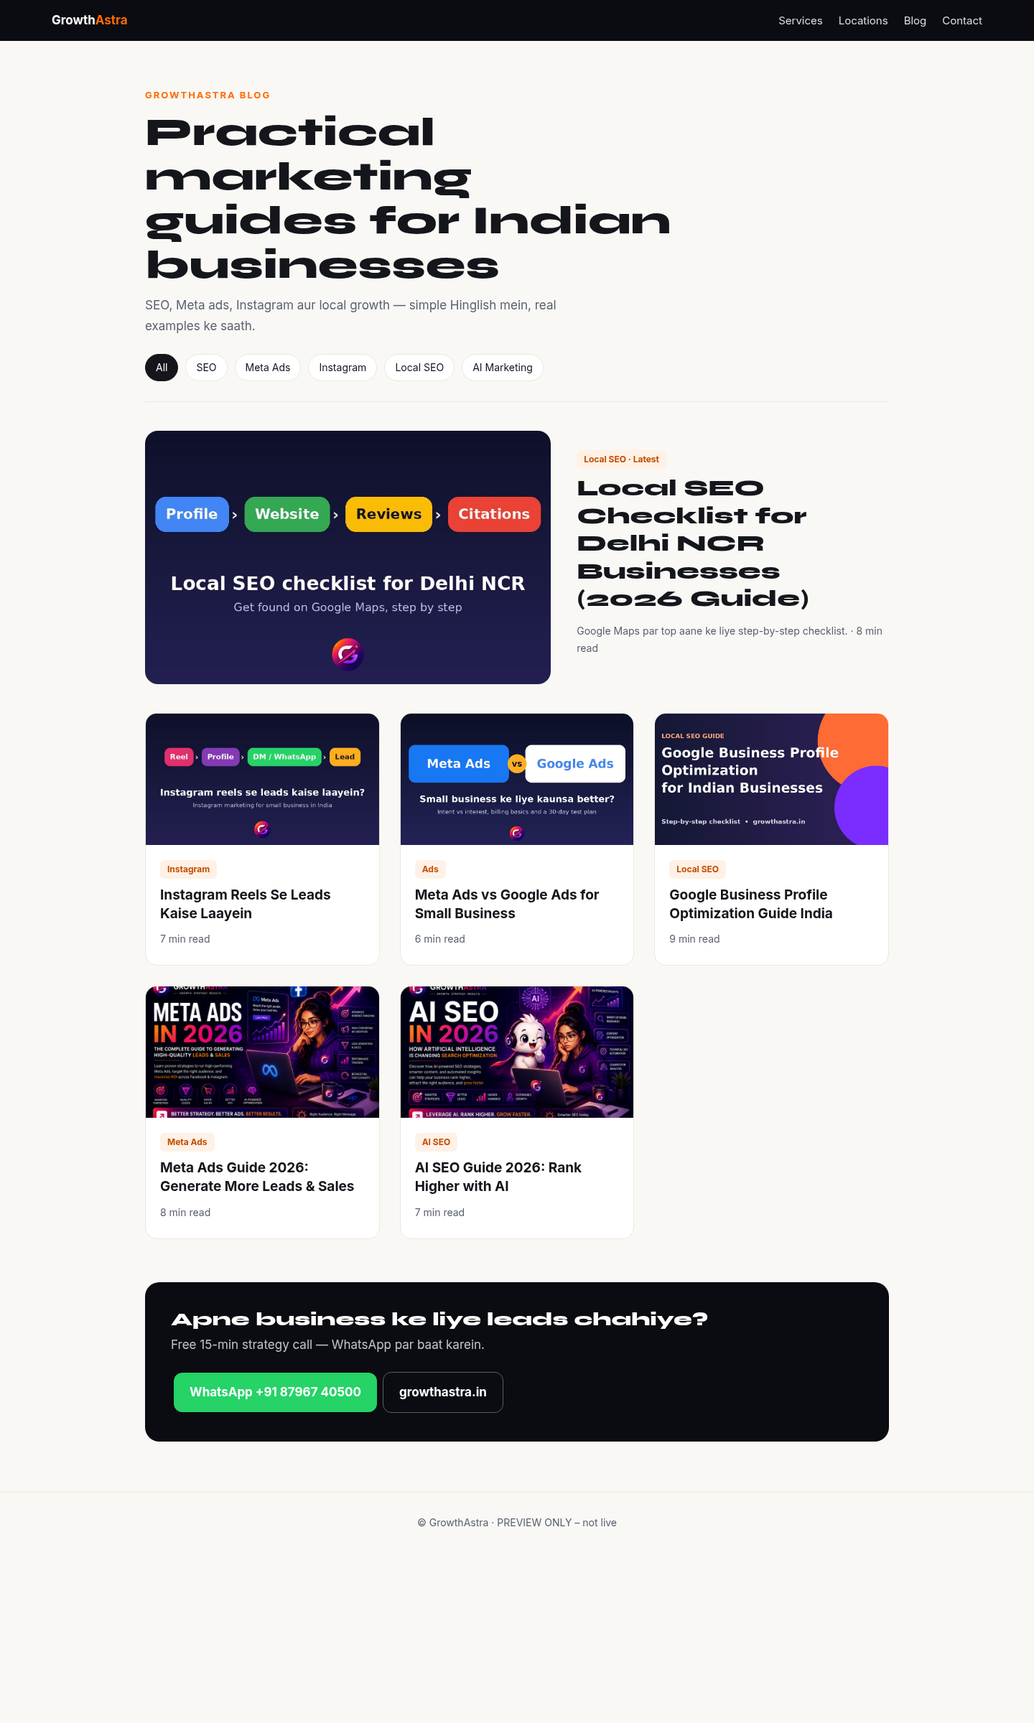
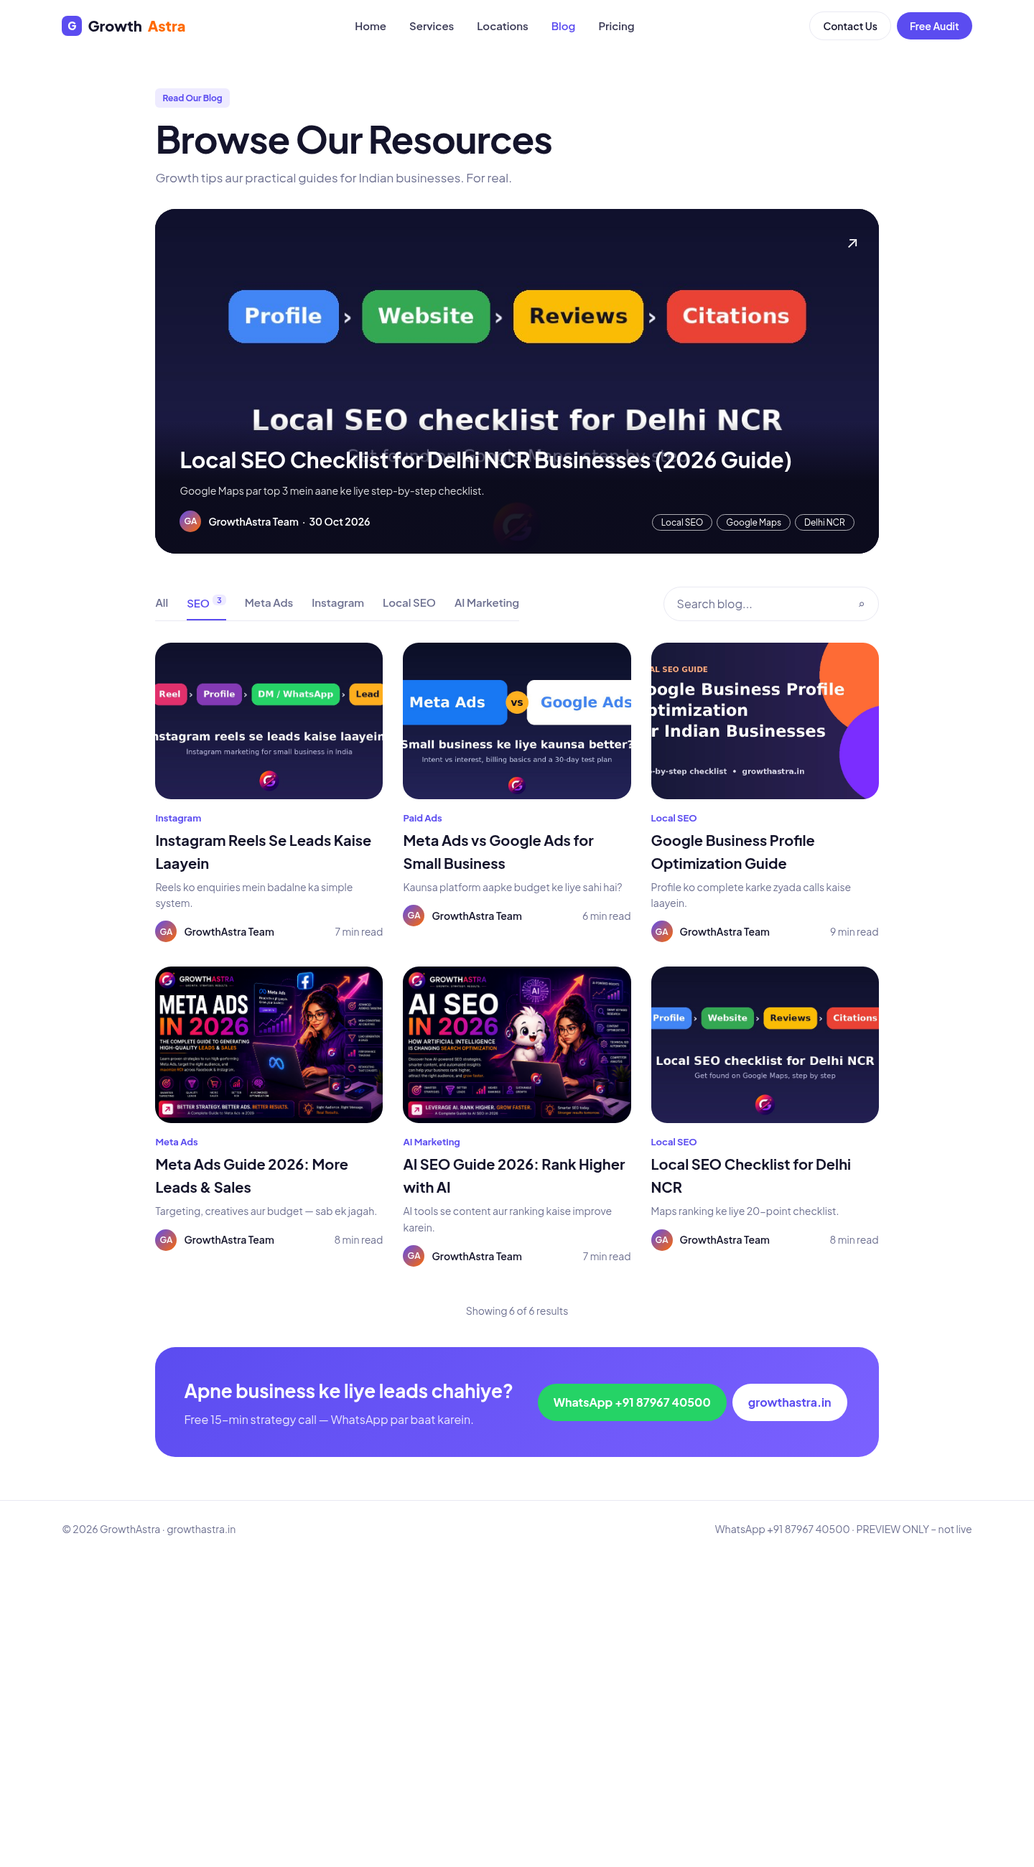
2026-10-31-blog-redesign v2 slothui style

diff --git a/2026-10-31-blog-redesign/blog.css b/2026-10-31-blog-redesign/blog.css
@@ -1,41 +1,46 @@
-:root{--o:#FF6A00;--p:#FF2E80;--ink:#14161c;--mut:#5b6170;--bg:#faf8f5;--card:#fff;--line:#ece7e0}
-*{box-sizing:border-box}body{margin:0;background:var(--bg);color:var(--ink);font:17px/1.7 Inter,system-ui,sans-serif}
+:root{--a:#5B4CF0;--al:#EEEBFF;--ink:#14142B;--mut:#6E7191;--line:#E9E9F2;--o:#FF6A00}
+*{box-sizing:border-box}body{margin:0;background:#fff;color:var(--ink);font:16px/1.6 "Plus Jakarta Sans",Inter,system-ui,sans-serif}
 a{color:inherit;text-decoration:none}
-.top{background:#0b0c12;color:#fff;padding:14px 5vw;display:flex;justify-content:space-between;align-items:center;font-weight:700}
-.top b{color:var(--o)}.top nav a{margin-left:22px;font-weight:500;opacity:.85;font-size:15px}
-.wrap{max-width:1180px;margin:0 auto;padding:0 5vw}
-.hero{padding:64px 0 28px;border-bottom:1px solid var(--line)}
-.kick{color:var(--o);font-weight:700;letter-spacing:2px;font-size:13px;text-transform:uppercase}
-.hero h1{font:800 clamp(34px,5vw,56px)/1.1 Syne,Inter,sans-serif;margin:10px 0 12px;max-width:760px}
-.hero p{color:var(--mut);max-width:620px;margin:0}
-.chips{display:flex;gap:10px;flex-wrap:wrap;margin:24px 0 0}
-.chips span{border:1px solid var(--line);background:#fff;padding:6px 14px;border-radius:99px;font-size:14px}
-.chips span.on{background:var(--ink);color:#fff;border-color:var(--ink)}
-.feat{display:grid;grid-template-columns:1.3fr 1fr;gap:36px;align-items:center;margin:40px 0}
-.feat img{width:100%;aspect-ratio:16/10;object-fit:cover;border-radius:18px}
-.feat h2{font:800 32px/1.2 Syne,Inter,sans-serif;margin:8px 0}
-.meta{color:var(--mut);font-size:14px}
-.tag{display:inline-block;background:#fff1e6;color:#c24f00;font-size:12px;font-weight:700;padding:3px 10px;border-radius:6px}
-.grid{display:grid;grid-template-columns:repeat(3,1fr);gap:28px;margin:10px 0 60px}
-.card{background:var(--card);border:1px solid var(--line);border-radius:16px;overflow:hidden;transition:.2s}
-.card:hover{transform:translateY(-4px);box-shadow:0 14px 30px rgba(20,22,28,.08)}
-.card img{width:100%;aspect-ratio:16/9;object-fit:cover;display:block}
-.card div{padding:18px 20px 22px}.card h3{font-size:19px;line-height:1.35;margin:10px 0 8px}
-.cta{background:#0b0c12;color:#fff;border-radius:20px;padding:36px;display:flex;justify-content:space-between;align-items:center;gap:20px;flex-wrap:wrap;margin:40px 0 70px}
-.cta h3{margin:0 0 6px;font:800 26px Syne,Inter,sans-serif}.cta p{margin:0;opacity:.75}
-.btn{display:inline-block;padding:13px 22px;border-radius:12px;font-weight:700;margin:4px}
-.wa{background:#25D366;color:#fff}.site{border:1px solid #ffffff55;color:#fff}
+.top{display:flex;align-items:center;justify-content:space-between;padding:20px 6vw}
+.logo{font-weight:800;font-size:20px;display:flex;align-items:center;gap:8px}.logo i{width:28px;height:28px;border-radius:8px;background:var(--a);color:#fff;display:grid;place-items:center;font-style:normal;font-size:15px}.logo b{color:var(--o)}
+.top nav a{margin:0 16px;font-weight:600;font-size:15px;color:#3a3a55}
+.acts a{padding:10px 18px;border-radius:99px;font-weight:600;font-size:14px;margin-left:8px}
+.ghost{border:1px solid var(--line)}.prim{background:var(--a);color:#fff}
+.burger{display:none;font-size:22px}
+.wrap{max-width:1180px;margin:0 auto;padding:0 6vw}
+.pill{display:inline-block;background:var(--al);color:var(--a);font-size:12px;font-weight:700;padding:4px 10px;border-radius:6px}
+.hero{padding:50px 0 30px}.hero h1{font-size:clamp(34px,5vw,52px);line-height:1.15;margin:14px 0 10px;letter-spacing:-.02em}.hero p{color:var(--mut);margin:0;font-size:17px}
+.feat{position:relative;display:block;border-radius:28px;overflow:hidden;aspect-ratio:2.1/1;background:#111}
+.feat img{width:100%;height:100%;object-fit:cover}
+.feat .ov{position:absolute;inset:auto 0 0 0;padding:30px 34px;color:#fff;background:linear-gradient(transparent,rgba(10,10,25,.92) 45%)}
+.feat h2{font-size:clamp(20px,2.6vw,30px);margin:0 0 8px}.feat p{margin:0 0 16px;opacity:.85;font-size:14px}
+.row{display:flex;align-items:center;justify-content:space-between;gap:14px;flex-wrap:wrap;font-size:14px}
+.au{display:flex;align-items:center;gap:10px;font-weight:600}.av{width:30px;height:30px;border-radius:50%;background:linear-gradient(135deg,var(--a),var(--o));color:#fff;display:grid;place-items:center;font-size:12px}
+.tags span{border:1px solid #ffffffaa;border-radius:99px;padding:3px 12px;font-size:12px;margin-left:6px}
+.arrow{position:absolute;right:28px;top:28px;color:#fff;font-size:22px}
+.bar{display:flex;justify-content:space-between;align-items:center;gap:16px;margin:46px 0 30px;flex-wrap:wrap}
+.chips{display:flex;gap:26px;border-bottom:1px solid var(--line);overflow-x:auto}
+.chips span{padding:10px 0;font-weight:600;color:var(--mut);white-space:nowrap;font-size:15px}
+.chips .on{color:var(--a);border-bottom:2px solid var(--a)}.chips sup{background:var(--al);color:var(--a);border-radius:6px;padding:1px 6px;font-size:11px;margin-left:4px}
+.search{display:flex;align-items:center;border:1px solid var(--line);border-radius:99px;padding:10px 18px;width:300px;color:var(--mut);justify-content:space-between}
+.grid{display:grid;grid-template-columns:repeat(3,1fr);gap:34px 28px;margin-bottom:50px}
+.card img{width:100%;aspect-ratio:16/11;object-fit:cover;border-radius:22px;display:block;transition:.25s}
+.card:hover img{transform:translateY(-4px);box-shadow:0 16px 30px rgba(40,30,120,.15)}
+.cat{color:var(--a);font-size:13px;font-weight:700;margin:16px 0 4px;display:block}
+.card h3{font-size:20px;margin:0 0 6px}.card p{color:var(--mut);font-size:14px;margin:0 0 14px}
+.card .row{color:var(--mut)}.card .au{color:var(--ink)}
+.count{color:var(--mut);font-size:14px;text-align:center;margin-bottom:40px}
+.cta{background:linear-gradient(135deg,#5B4CF0,#7B61FF);color:#fff;border-radius:28px;padding:40px;display:flex;justify-content:space-between;align-items:center;gap:20px;flex-wrap:wrap;margin:20px 0 60px}
+.cta h3{margin:0 0 6px;font-size:26px}.cta p{margin:0;opacity:.85}
+.btn{display:inline-block;padding:13px 22px;border-radius:99px;font-weight:700;margin:4px}.wa{background:#25D366;color:#fff}.site{background:#fff;color:var(--a)}
+footer{border-top:1px solid var(--line);padding:28px 6vw;display:flex;justify-content:space-between;color:var(--mut);font-size:14px;flex-wrap:wrap;gap:10px}
 /* post */
-.post-head{max-width:760px;margin:0 auto;padding:56px 5vw 20px;text-align:center}
-.post-head h1{font:800 clamp(30px,4.5vw,46px)/1.15 Syne,Inter,sans-serif;margin:14px 0}
-.cover{max-width:1000px;margin:10px auto 0;padding:0 5vw}.cover img{width:100%;border-radius:20px;aspect-ratio:2/1;object-fit:cover}
-.layout{max-width:1000px;margin:40px auto;padding:0 5vw;display:grid;grid-template-columns:200px 1fr;gap:48px}
-.toc{position:sticky;top:20px;align-self:start;font-size:14px}.toc b{display:block;margin-bottom:10px}
-.toc a{display:block;color:var(--mut);padding:5px 0 5px 12px;border-left:2px solid var(--line)}.toc a.on{color:var(--o);border-color:var(--o)}
-article{max-width:680px;font-size:18.5px}article h2{font:800 27px/1.3 Syne,Inter,sans-serif;margin:40px 0 10px}
-article blockquote{margin:28px 0;padding:18px 22px;background:#fff1e6;border-left:4px solid var(--o);border-radius:0 12px 12px 0}
-article a{color:#c24f00;text-decoration:underline}
-.mini{background:#fff;border:1px solid var(--line);border-radius:16px;padding:22px;margin:36px 0}
-.mini .btn.site{border-color:var(--ink);color:var(--ink)}
-footer{text-align:center;color:var(--mut);font-size:14px;padding:30px;border-top:1px solid var(--line)}
-@media(max-width:860px){.feat,.layout{grid-template-columns:1fr}.grid{grid-template-columns:1fr}.toc{display:none}.top nav{display:none}.cta{padding:26px}}
+.ph{max-width:820px;margin:0 auto;padding:40px 6vw 24px;text-align:center}.ph h1{font-size:clamp(30px,4.4vw,46px);line-height:1.2;margin:14px 0}.ph .au{justify-content:center;color:var(--mut)}
+.cover{max-width:1100px;margin:0 auto;padding:0 6vw}.cover img{width:100%;aspect-ratio:2.2/1;object-fit:cover;border-radius:28px}
+.layout{max-width:1100px;margin:44px auto;padding:0 6vw;display:grid;grid-template-columns:220px 1fr;gap:56px}
+.toc{position:sticky;top:20px;align-self:start;border:1px solid var(--line);border-radius:20px;padding:20px;font-size:14px}.toc b{display:block;margin-bottom:8px}
+.toc a{display:block;color:var(--mut);padding:6px 10px;border-radius:10px}.toc a.on{background:var(--al);color:var(--a);font-weight:600}
+article{max-width:700px;font-size:18px;line-height:1.8;color:#2b2b45}article h2{font-size:26px;color:var(--ink);margin:38px 0 8px}
+article blockquote{margin:26px 0;padding:18px 22px;background:var(--al);border-radius:18px;color:var(--ink)}
+.mini{border:1px solid var(--line);border-radius:22px;padding:24px;margin:34px 0}.mini .site{border:1px solid var(--line)}
+@media(max-width:860px){.top nav,.acts{display:none}.burger{display:block}.grid,.layout{grid-template-columns:1fr}.toc{display:none}.feat{aspect-ratio:3/4}.feat .ov{padding:22px}.tags{margin-top:8px}.tags span{margin:0 6px 0 0}.search{width:100%}.bar{flex-direction:column-reverse;align-items:stretch}.cta{padding:28px}}

diff --git a/2026-10-31-blog-redesign/index.html b/2026-10-31-blog-redesign/index.html
@@ -1,11 +1,12 @@
-<!doctype html><html><head><meta charset=utf-8><meta name=viewport content="width=device-width,initial-scale=1"><title>Blog preview</title><link rel=stylesheet href=blog.css><link href="https://fonts.googleapis.com/css2?family=Inter:wght@400;600;700&family=Syne:wght@700;800&display=swap" rel=stylesheet></head><body><header class=top><a href=#>Growth<b>Astra</b></a><nav><a>Services</a><a>Locations</a><a>Blog</a><a>Contact</a></nav></header>
-<div class=wrap><section class=hero><div class=kick>GrowthAstra Blog</div><h1>Practical marketing guides for Indian businesses</h1><p>SEO, Meta ads, Instagram aur local growth — simple Hinglish mein, real examples ke saath.</p>
-<div class=chips><span class=on>All</span><span>SEO</span><span>Meta Ads</span><span>Instagram</span><span>Local SEO</span><span>AI Marketing</span></div></section>
-<a class=feat href=post.html><img src=https://growthastra.in/uploads/1793340000_local-seo-checklist-delhi-ncr.jpg><div><span class=tag>Local SEO · Latest</span><h2>Local SEO Checklist for Delhi NCR Businesses (2026 Guide)</h2><p class=meta>Google Maps par top aane ke liye step-by-step checklist. · 8 min read</p></div></a>
+<!doctype html><html><head><meta charset=utf-8><meta name=viewport content="width=device-width,initial-scale=1"><link rel=stylesheet href=blog.css><link href="https://fonts.googleapis.com/css2?family=Plus+Jakarta+Sans:wght@400;600;700;800&display=swap" rel=stylesheet><title>Blog – GrowthAstra (preview)</title></head><body><header class=top><a class=logo href=#><i>G</i>Growth<b>Astra</b></a><nav><a>Home</a><a>Services</a><a>Locations</a><a style="color:#5B4CF0">Blog</a><a>Pricing</a></nav><div class=acts><a class=ghost href=https://wa.me/918796740500>Contact Us</a><a class=prim href=https://growthastra.in>Free Audit</a></div><span class=burger>☰</span></header><div class=wrap>
+<section class=hero><span class=pill>Read Our Blog</span><h1>Browse Our Resources</h1><p>Growth tips aur practical guides for Indian businesses. For real.</p></section>
+<a class=feat href=post.html><img src=https://growthastra.in/uploads/1793340000_local-seo-checklist-delhi-ncr.jpg><span class=arrow>↗</span><div class=ov><h2>Local SEO Checklist for Delhi NCR Businesses (2026 Guide)</h2><p>Google Maps par top 3 mein aane ke liye step-by-step checklist.</p><div class=row><span class=au><span class=av>GA</span>GrowthAstra Team &nbsp;·&nbsp; 30 Oct 2026</span><span class=tags><span>Local SEO</span><span>Google Maps</span><span>Delhi NCR</span></span></div></div></a>
+<div class=bar><div class=chips><span>All</span><span class=on>SEO<sup>3</sup></span><span>Meta Ads</span><span>Instagram</span><span>Local SEO</span><span>AI Marketing</span></div><div class=search>Search blog... <span>⌕</span></div></div>
 <div class=grid>
-<a class=card href=post.html><img src=https://growthastra.in/uploads/1793080000_instagram-marketing-small-business.jpg><div><span class=tag>Instagram</span><h3>Instagram Reels Se Leads Kaise Laayein</h3><span class=meta>7 min read</span></div></a>
-<a class=card href=post.html><img src=https://growthastra.in/uploads/1792760000_meta-ads-vs-google-ads.jpg><div><span class=tag>Ads</span><h3>Meta Ads vs Google Ads for Small Business</h3><span class=meta>6 min read</span></div></a>
-<a class=card href=post.html><img src=https://growthastra.in/uploads/1792500000_google-business-profile-guide.jpg><div><span class=tag>Local SEO</span><h3>Google Business Profile Optimization Guide India</h3><span class=meta>9 min read</span></div></a>
-<a class=card href=post.html><img src=https://growthastra.in/uploads/1783506954_meta-ads-management.png><div><span class=tag>Meta Ads</span><h3>Meta Ads Guide 2026: Generate More Leads & Sales</h3><span class=meta>8 min read</span></div></a>
-<a class=card href=post.html><img src=https://growthastra.in/uploads/1782991472_ai-seo.png><div><span class=tag>AI SEO</span><h3>AI SEO Guide 2026: Rank Higher with AI</h3><span class=meta>7 min read</span></div></a>
-</div><div class="cta"><div><h3>Apne business ke liye leads chahiye?</h3><p>Free 15-min strategy call — WhatsApp par baat karein.</p></div><div><a class="btn wa" href="https://wa.me/918796740500">WhatsApp +91 87967 40500</a><a class="btn site" href="https://growthastra.in">growthastra.in</a></div></div></div><footer>© GrowthAstra · PREVIEW ONLY – not live</footer></body></html>
+<a class=card href=post.html><img src=https://growthastra.in/uploads/1793080000_instagram-marketing-small-business.jpg><span class=cat>Instagram</span><h3>Instagram Reels Se Leads Kaise Laayein</h3><p>Reels ko enquiries mein badalne ka simple system.</p><div class=row><span class=au><span class=av>GA</span>GrowthAstra Team</span><span>7 min read</span></div></a>
+<a class=card href=post.html><img src=https://growthastra.in/uploads/1792760000_meta-ads-vs-google-ads.jpg><span class=cat>Paid Ads</span><h3>Meta Ads vs Google Ads for Small Business</h3><p>Kaunsa platform aapke budget ke liye sahi hai?</p><div class=row><span class=au><span class=av>GA</span>GrowthAstra Team</span><span>6 min read</span></div></a>
+<a class=card href=post.html><img src=https://growthastra.in/uploads/1792500000_google-business-profile-guide.jpg><span class=cat>Local SEO</span><h3>Google Business Profile Optimization Guide</h3><p>Profile ko complete karke zyada calls kaise laayein.</p><div class=row><span class=au><span class=av>GA</span>GrowthAstra Team</span><span>9 min read</span></div></a>
+<a class=card href=post.html><img src=https://growthastra.in/uploads/1783506954_meta-ads-management.png><span class=cat>Meta Ads</span><h3>Meta Ads Guide 2026: More Leads & Sales</h3><p>Targeting, creatives aur budget — sab ek jagah.</p><div class=row><span class=au><span class=av>GA</span>GrowthAstra Team</span><span>8 min read</span></div></a>
+<a class=card href=post.html><img src=https://growthastra.in/uploads/1782991472_ai-seo.png><span class=cat>AI Marketing</span><h3>AI SEO Guide 2026: Rank Higher with AI</h3><p>AI tools se content aur ranking kaise improve karein.</p><div class=row><span class=au><span class=av>GA</span>GrowthAstra Team</span><span>7 min read</span></div></a>
+<a class=card href=post.html><img src=https://growthastra.in/uploads/1793340000_local-seo-checklist-delhi-ncr.jpg><span class=cat>Local SEO</span><h3>Local SEO Checklist for Delhi NCR</h3><p>Maps ranking ke liye 20-point checklist.</p><div class=row><span class=au><span class=av>GA</span>GrowthAstra Team</span><span>8 min read</span></div></a>
+</div><div class=count>Showing 6 of 6 results</div><div class=cta><div><h3>Apne business ke liye leads chahiye?</h3><p>Free 15-min strategy call — WhatsApp par baat karein.</p></div><div><a class="btn wa" href="https://wa.me/918796740500">WhatsApp +91 87967 40500</a><a class="btn site" href="https://growthastra.in">growthastra.in</a></div></div></div><footer><span>© 2026 GrowthAstra · growthastra.in</span><span>WhatsApp +91 87967 40500 · PREVIEW ONLY – not live</span></footer></body></html>

diff --git a/2026-10-31-blog-redesign/post.html b/2026-10-31-blog-redesign/post.html
@@ -1,16 +1,16 @@
-<!doctype html><html><head><meta charset=utf-8><meta name=viewport content="width=device-width,initial-scale=1"><title>Post preview</title><link rel=stylesheet href=blog.css><link href="https://fonts.googleapis.com/css2?family=Inter:wght@400;600;700&family=Syne:wght@700;800&display=swap" rel=stylesheet></head><body><header class=top><a href=#>Growth<b>Astra</b></a><nav><a>Services</a><a>Locations</a><a>Blog</a><a>Contact</a></nav></header>
-<div class=post-head><span class=tag>Local SEO</span><h1>Local SEO Checklist for Delhi NCR Businesses (2026 Guide)</h1><div class=meta>GrowthAstra Team · 30 Oct 2026 · 8 min read</div></div>
+<!doctype html><html><head><meta charset=utf-8><meta name=viewport content="width=device-width,initial-scale=1"><link rel=stylesheet href=blog.css><link href="https://fonts.googleapis.com/css2?family=Plus+Jakarta+Sans:wght@400;600;700;800&display=swap" rel=stylesheet><title>Local SEO Checklist – GrowthAstra (preview)</title></head><body><header class=top><a class=logo href=#><i>G</i>Growth<b>Astra</b></a><nav><a>Home</a><a>Services</a><a>Locations</a><a style="color:#5B4CF0">Blog</a><a>Pricing</a></nav><div class=acts><a class=ghost href=https://wa.me/918796740500>Contact Us</a><a class=prim href=https://growthastra.in>Free Audit</a></div><span class=burger>☰</span></header>
+<div class=ph><span class=pill>Local SEO</span><h1>Local SEO Checklist for Delhi NCR Businesses (2026 Guide)</h1><div class=au><span class=av>GA</span>GrowthAstra Team · 30 Oct 2026 · 8 min read</div></div>
 <div class=cover><img src=https://growthastra.in/uploads/1793340000_local-seo-checklist-delhi-ncr.jpg></div>
-<div class=layout><nav class=toc><b>Is guide mein</b><a class=on href=#a>Why local SEO</a><a href=#b>Google Business Profile</a><a href=#c>NAP consistency</a><a href=#d>Reviews</a></nav>
+<div class=layout><nav class=toc><b>Is guide mein</b><a class=on>Why local SEO</a><a>Google Business Profile</a><a>NAP consistency</a><a>Reviews</a></nav>
 <article><p>Delhi NCR mein har din hazaron log "near me" search karte hain. Agar aapka business Google Maps par top 3 mein nahi hai, toh customer seedha competitor ke paas jaata hai.</p>
-<h2 id=a>Local SEO kyun zaroori hai?</h2><p>Local searches ka bada hissa usi din call ya visit mein convert hota hai. Isliye profile, reviews aur location pages sabse pehle theek karein.</p>
+<h2>Local SEO kyun zaroori hai?</h2><p>Local searches ka bada hissa usi din call ya visit mein convert hota hai. Isliye profile, reviews aur location pages sabse pehle theek karein.</p>
 <blockquote><b>Quick tip:</b> Naam, address aur phone har jagah bilkul same rakhein.</blockquote>
-<h2 id=b>Google Business Profile set karein</h2><p>Sahi category, hours, photos aur weekly posts — ye chaar cheezein ranking par seedha asar daalti hain.</p>
-<div class=mini><b>Free local SEO audit chahiye?</b><p class=meta>WhatsApp par message karein, 24 ghante mein report.</p><a class="btn wa" href="https://wa.me/918796740500">WhatsApp karein</a><a class="btn site" href="https://growthastra.in">growthastra.in</a></div>
-<h2 id=c>NAP consistency</h2><p>Justdial, IndiaMART, Facebook — sab directories mein details match honi chahiye.</p>
-<h2 id=d>Reviews aur replies</h2><p>Har review ka reply 24 ghante mein dein, keyword naturally use karein.</p></article></div>
-<div class=wrap><h2 style="font-family:Syne">Aur padhein</h2><div class=grid>
-<a class=card href=post.html><img src=https://growthastra.in/uploads/1792500000_google-business-profile-guide.jpg><div><span class=tag>Local SEO</span><h3>Google Business Profile Optimization Guide India</h3><span class=meta>9 min read</span></div></a>
-<a class=card href=post.html><img src=https://growthastra.in/uploads/1793080000_instagram-marketing-small-business.jpg><div><span class=tag>Instagram</span><h3>Instagram Reels Se Leads Kaise Laayein</h3><span class=meta>7 min read</span></div></a>
-<a class=card href=post.html><img src=https://growthastra.in/uploads/1792760000_meta-ads-vs-google-ads.jpg><div><span class=tag>Ads</span><h3>Meta Ads vs Google Ads for Small Business</h3><span class=meta>6 min read</span></div></a>
-</div><div class="cta"><div><h3>Apne business ke liye leads chahiye?</h3><p>Free 15-min strategy call — WhatsApp par baat karein.</p></div><div><a class="btn wa" href="https://wa.me/918796740500">WhatsApp +91 87967 40500</a><a class="btn site" href="https://growthastra.in">growthastra.in</a></div></div></div><footer>© GrowthAstra · PREVIEW ONLY – not live</footer></body></html>
+<h2>Google Business Profile set karein</h2><p>Sahi category, hours, photos aur weekly posts — ye chaar cheezein ranking par seedha asar daalti hain.</p>
+<div class=mini><b>Free local SEO audit chahiye?</b><p style="color:#6E7191;margin:4px 0 12px">WhatsApp par message karein, 24 ghante mein report.</p><a class="btn wa" href="https://wa.me/918796740500">WhatsApp +91 87967 40500</a><a class="btn site" href="https://growthastra.in">growthastra.in</a></div>
+<h2>NAP consistency</h2><p>Justdial, IndiaMART, Facebook — sab directories mein details match honi chahiye.</p>
+<h2>Reviews aur replies</h2><p>Har review ka reply 24 ghante mein dein, keyword naturally use karein.</p></article></div>
+<div class=wrap><h2>Aur padhein</h2><div class=grid>
+<a class=card href=post.html><img src=https://growthastra.in/uploads/1792500000_google-business-profile-guide.jpg><span class=cat>Local SEO</span><h3>Google Business Profile Optimization Guide</h3><p>Profile ko complete karke zyada calls kaise laayein.</p><div class=row><span class=au><span class=av>GA</span>GrowthAstra Team</span><span>9 min read</span></div></a>
+<a class=card href=post.html><img src=https://growthastra.in/uploads/1793080000_instagram-marketing-small-business.jpg><span class=cat>Instagram</span><h3>Instagram Reels Se Leads Kaise Laayein</h3><p>Reels ko enquiries mein badalne ka simple system.</p><div class=row><span class=au><span class=av>GA</span>GrowthAstra Team</span><span>7 min read</span></div></a>
+<a class=card href=post.html><img src=https://growthastra.in/uploads/1792760000_meta-ads-vs-google-ads.jpg><span class=cat>Paid Ads</span><h3>Meta Ads vs Google Ads for Small Business</h3><p>Kaunsa platform aapke budget ke liye sahi hai?</p><div class=row><span class=au><span class=av>GA</span>GrowthAstra Team</span><span>6 min read</span></div></a>
+</div><div class=cta><div><h3>Apne business ke liye leads chahiye?</h3><p>Free 15-min strategy call — WhatsApp par baat karein.</p></div><div><a class="btn wa" href="https://wa.me/918796740500">WhatsApp +91 87967 40500</a><a class="btn site" href="https://growthastra.in">growthastra.in</a></div></div></div><footer><span>© 2026 GrowthAstra · growthastra.in</span><span>WhatsApp +91 87967 40500 · PREVIEW ONLY – not live</span></footer></body></html>
